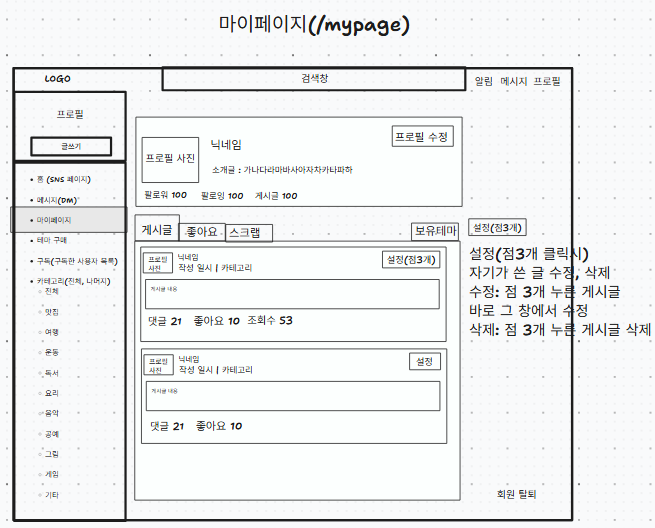
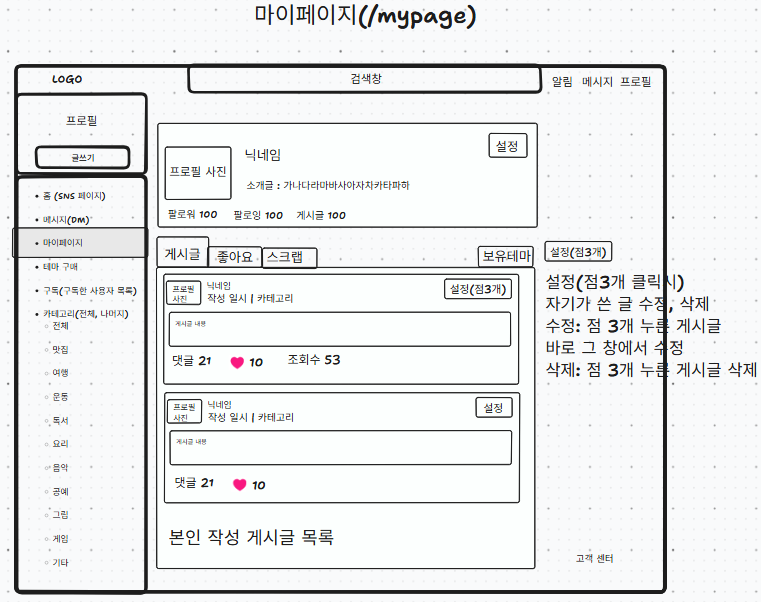
feat: wireframe modify

Changed region(s): [[0.0, 0.0, 1.0, 1.0], [0.7634, 0.9091, 0.8244, 0.9394], [0.7023, 0.9091, 0.7328, 0.9394]]

diff --git a/docs/02_design/03_ui_wireframe.md b/docs/02_design/03_ui_wireframe.md
@@ -134,7 +134,6 @@
   
 ### 1.2.9 마이페이지 화면 (`/mypage`)
 ![img_18.png](img_18.png)
-
 - 출력 데이터 항목 (Output Data):
   - 상단 영역: 내 프로필 사진, 닉네임, 한 줄 소개, 팔로워 수, 팔로잉 수, 게시글 수
   - 중단 영역: 게시글, 좋아요, 스크랩, 보유테마 탭
@@ -170,6 +169,10 @@
   - 스크랩한 게시글의 프로필 사진 클릭시 해당 게시글을 작성한 작성자의 프로필 화면으로 이동
   - 스크랩한 게시글을 클릭시 해당 게시글의 상세 화면으로 이동
   - 회원 탈퇴 버튼 클릭 시 회원 탈퇴 절차 진행
+
+### 1.2.12 마이페이지 - 고객센터
+![img_37.png](img_37.png)
+
   
 ### 1.2.13 마이페이지 - 보유 테마(`/mypage/theme`)
 ![img_24.png](img_24.png)
@@ -242,8 +245,8 @@
   - 결제 성공 시 해당 테마를 사용자의 보유 테마에 등록
   - 구매 완료된 
   - 회원 탈퇴 완료 시 로그아웃 처리 후 메인 화면으로 이동
-  - 테마 구매 페이지 창 닫기(X) 버튼 클릭 시 테마 구매 페이지 닫기 
-
+  - 테마 구매 페이지 창 닫기(X) 버튼 클릭 시 테마 구매 페이지 닫기
+  - 
 ### 1.2.12 구독 페이지
 ![img_30.png](img_30.png)
 - 출력 데이터 항목 (Output Data):
